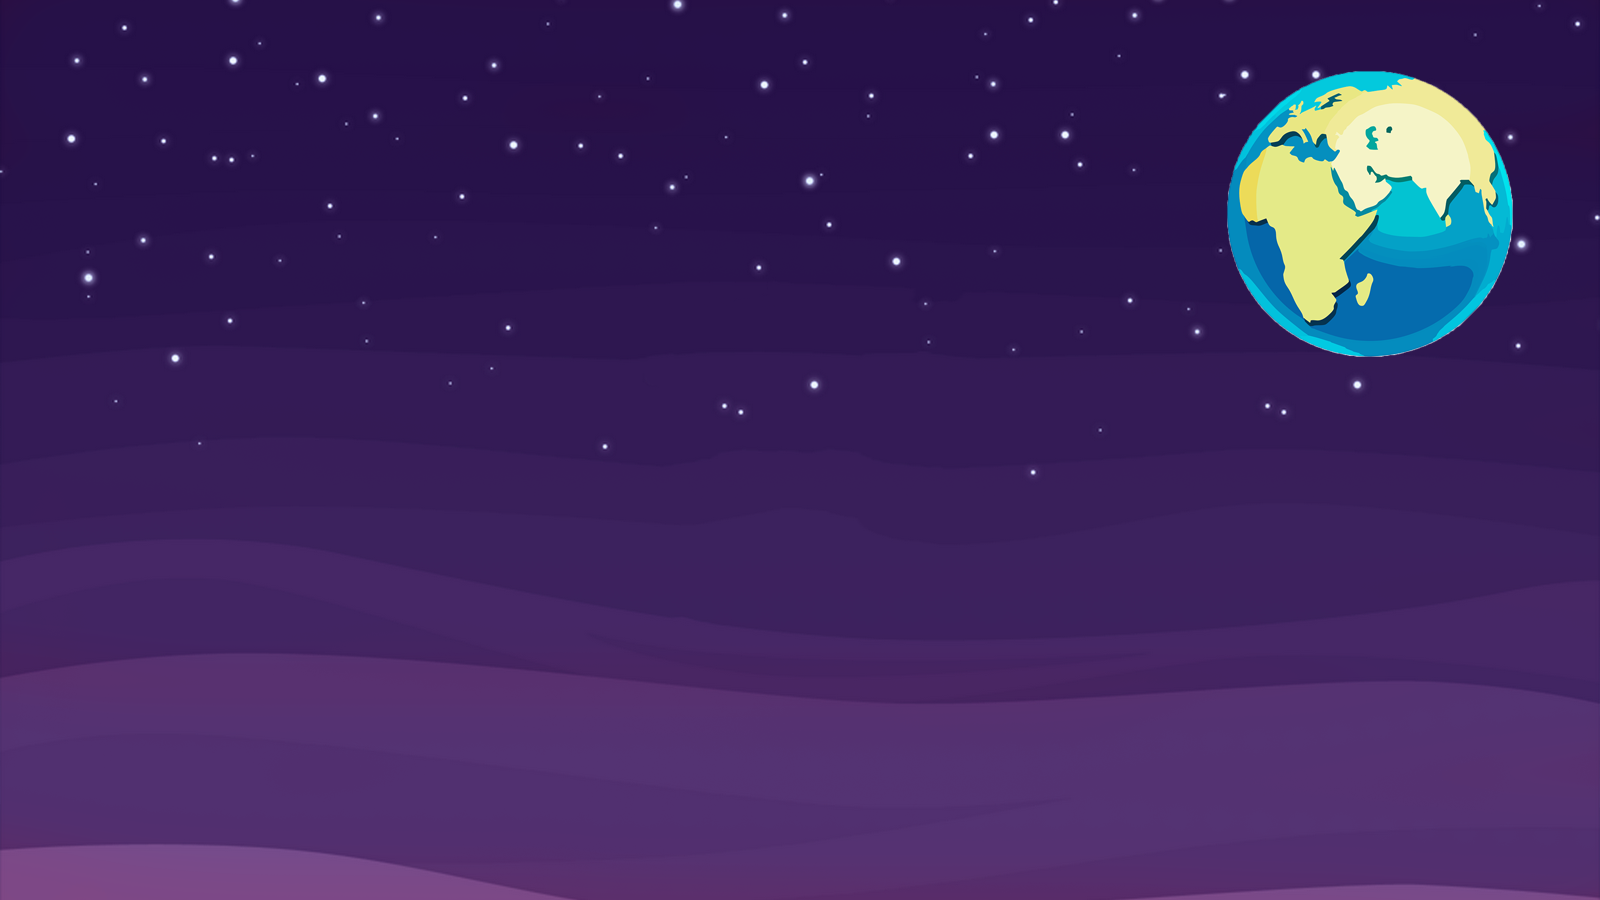
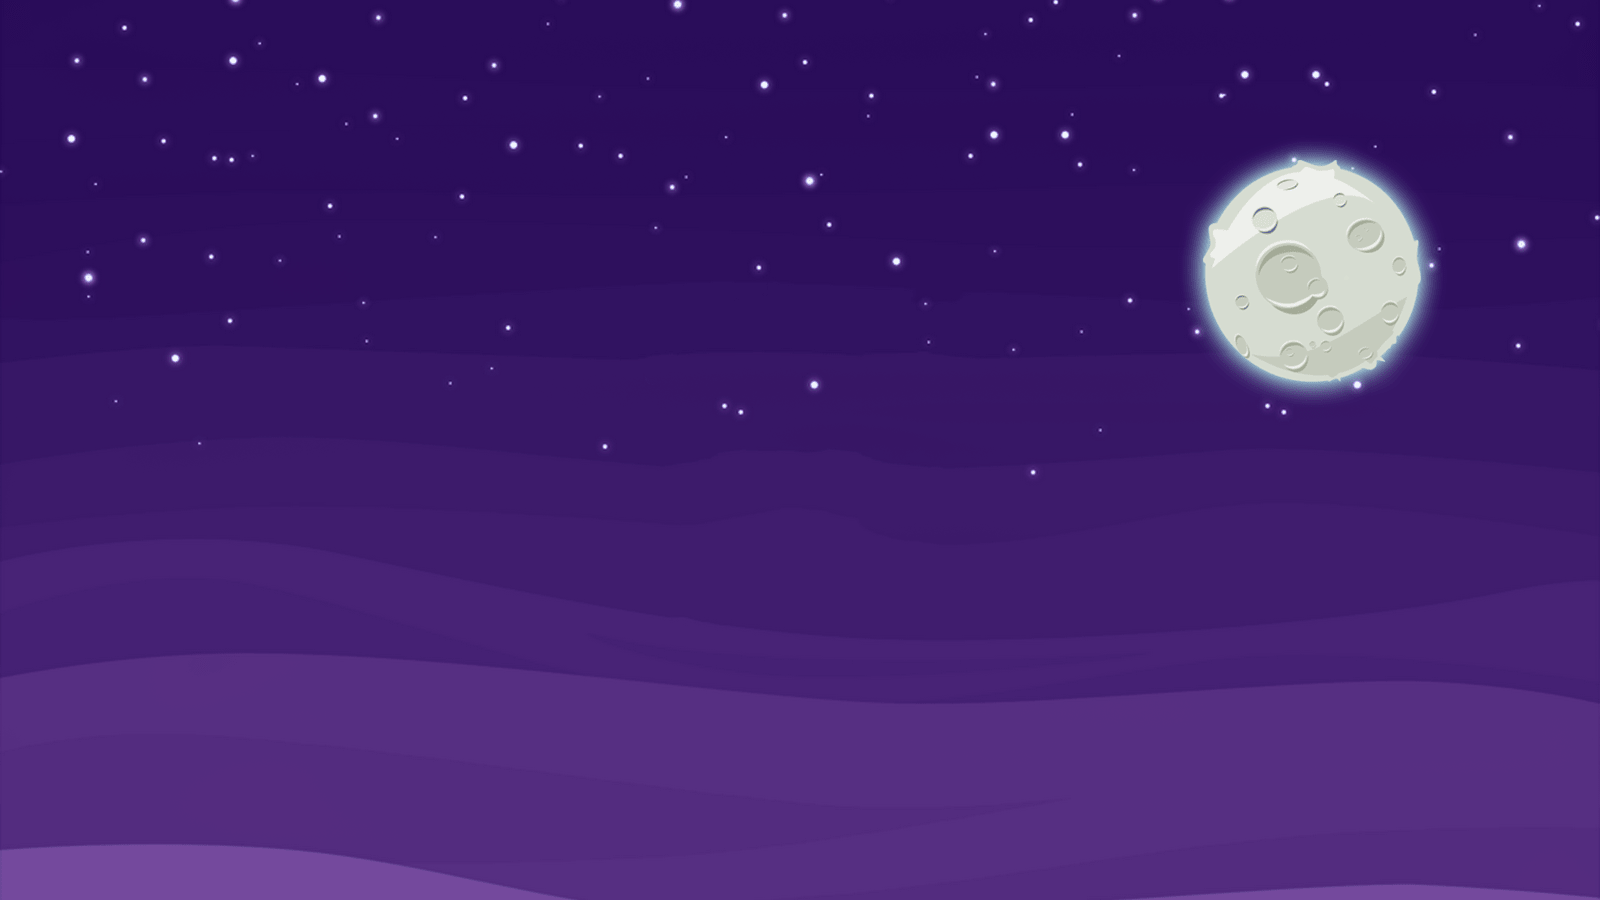
imagenes

Changed region(s): [[0.7188, 0.0622, 0.9688, 0.4667]]

diff --git a/index.html b/index.html
@@ -47,7 +47,7 @@
     <header>
         <div class="header">
             <!-- Header image -->
-            <img src="images/background3.png" alt="img">
+            <img src="images/background.png" alt="img">
 
             <div class="header-overlay">
                 <div class="header-content">            	
@@ -208,7 +208,7 @@
 			<div id="owl-demo" class="owl-carousel text-center">
 				<div class="item w3-agile">
 					<div class="agilegrid agilegrid1">
-						<img src="images/package-1.jpg" alt="Odyssey">
+						<img src="images/landingpage.png" alt="Odyssey">
 						<h4>LANDING PAGE</h4>
 						<h5>€1300</h5>
 						<ul>

diff --git a/css/style.css b/css/style.css
@@ -561,7 +561,7 @@ h4.modal-title {
 /*-- Details --*/
 
 .agileinfodetails {
-	background: url("../images/alien2.png") no-repeat;
+	background: url("../images/alien-background.jpg") no-repeat;
 	background-position: center;
 	background-size:cover;
         width: 100%;
